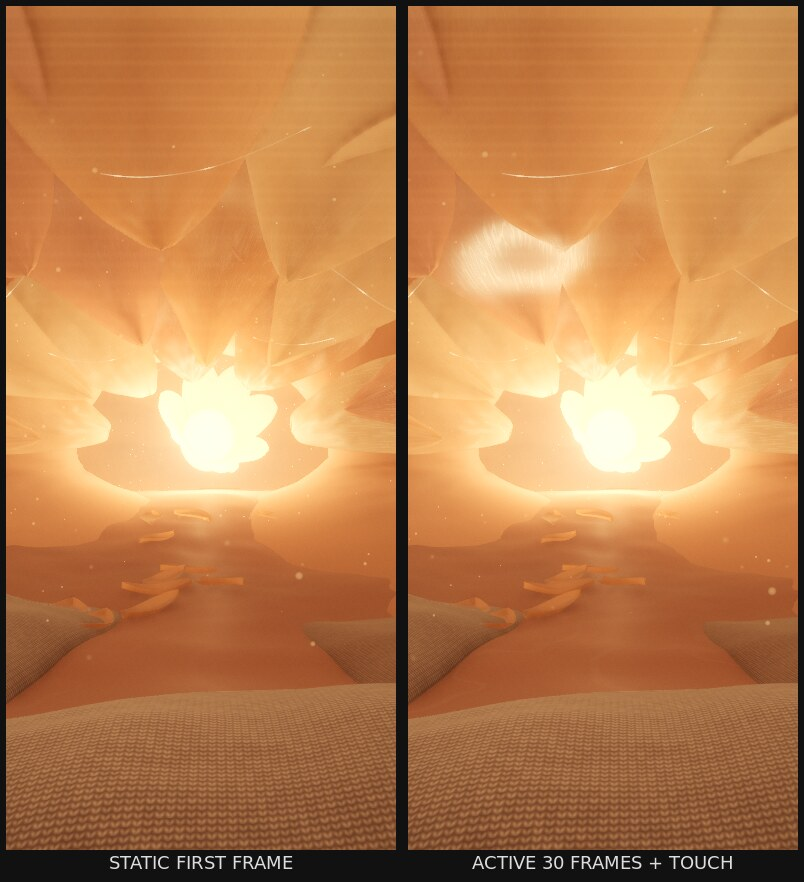
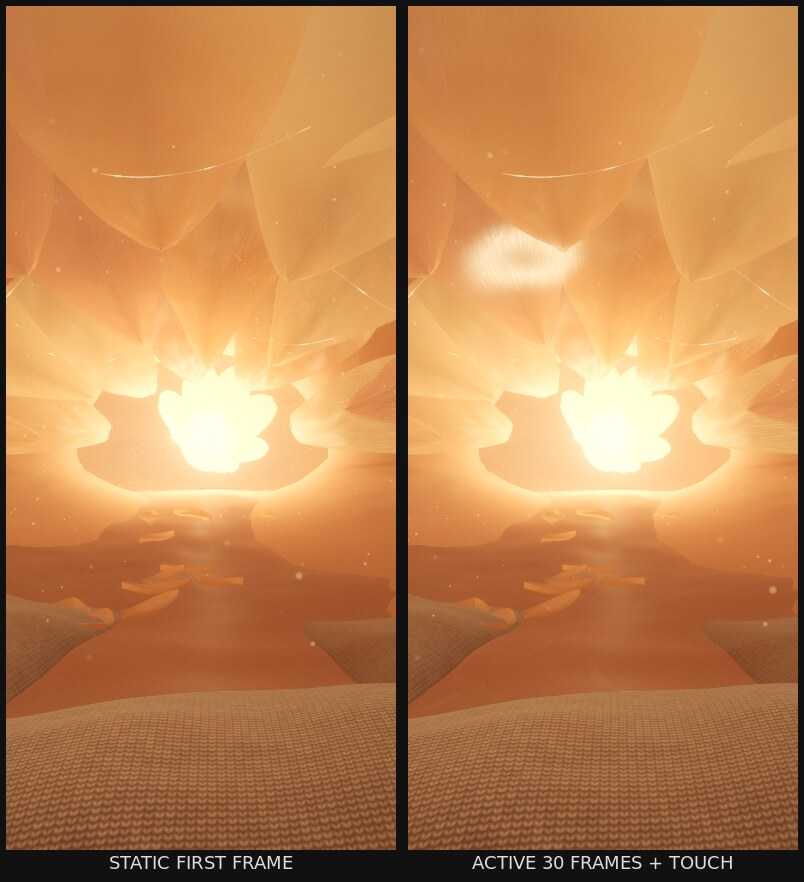
Remove fine horizontal banding from the warm heart petals
The stripes on the thin overhead petals came from the shared screen-space
AO: with AO off they vanish (row-banding metric 1.05 -> 0.08 levels in the
portrait), while disabling the volume pass left them unchanged (1.08).
Warm heart now skips SSAO; light passes through its membranes, so
occlusion is weak anyway, and two half-resolution passes are saved.
Warm-heart evidence regenerated against the same BEFORE captures.

Claude-Session: https://claude.ai/code/session_01VGKbtA9UtDn2W8JCtvG1sG

diff --git a/components/immersiveWorlds/quietSanctuaries/warmHeart.ts b/components/immersiveWorlds/quietSanctuaries/warmHeart.ts
@@ -534,7 +534,11 @@ void main() {
   return {
     scene, camera, resize,
     post: {
-      exposure: .98, bloomStrength: .2, bloomThreshold: 0, aoStrength: .7, aoRadius: .45,
+      // No screen-space AO here: light passes through these membranes, so occlusion is weak,
+      // and on the thin overhead petals seen at grazing angles the shared AO's depth-aware
+      // blur keeps only horizontal neighbours, leaving its per-pixel rotation noise as fine
+      // horizontal stripes. Skipping the pass also saves two half-resolution passes.
+      exposure: .98, bloomStrength: .2, bloomThreshold: 0, aoStrength: 0, aoRadius: .3,
       saturation: .97, contrast: 1.1, shadowTint: [1.05, .88, .95], highlightTint: [1.05, 1.0, .9], vignette: .5, grain: .02,
     },
     prepare(renderer) {
